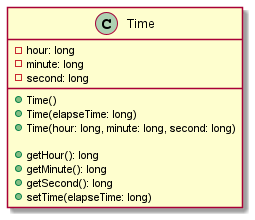
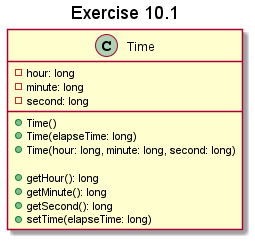
Some fixes on Exercises 10 1-3.

Changed region(s): [[0.0, 0.0, 0.9882, 0.6545], [0.0275, 0.6818, 0.9608, 0.9545]]

diff --git a/Introduction_to_Java_Programming/src/main/java/chapter10/example/examples/TestInteger.java b/Introduction_to_Java_Programming/src/main/java/chapter10/example/examples/TestInteger.java
@@ -27,11 +27,18 @@ public class TestInteger {
         System.out.println("x1 == x2 is " + (x1 == x2)); // Display false
     }
 
+    /** constants */
     public static void maxValues() {
         System.out.println("The maximum integer is " + Integer.MAX_VALUE);
         System.out.println("The minimum positive float is " +Float.MIN_VALUE);
         System.out.println("The maximum double-precision floating-point number is " +
                         Double.MAX_VALUE);
+    }
+
+    public static void conversionMethods() {
+        int val1 = Double.valueOf(12.4).intValue(); // returns 12
+        double val2 = Integer.valueOf(12).doubleValue(); // returns 12.0
+        System.out.println("Values = "  + val1 + ", " + val2);
     }
 
     public static void compareToTest() {
@@ -40,11 +47,20 @@ public class TestInteger {
         System.out.println(Double.valueOf(12.3).compareTo(Double.valueOf(12.51))); // returns –1;
     }
 
+    public static void parsing() {
+        int i1 = Integer.parseInt("11", 2); // returns 3;
+        int i2 = Integer.parseInt("12", 8); // returns 10;
+        int i3 = Integer.parseInt("13", 10); // returns 13;
+        int i4 = Integer.parseInt("1A", 16); //  returns 26;
+        System.out.println("integers = " + i1 + ", " + i2 + ", " + i3 + ", " + i4);
+    }
 
     public static void main(String[] args) {
         constructorExamples();
         frequentlyUsed();
         maxValues();
+        conversionMethods();
+        parsing();
         compareToTest();
     }
 }

diff --git a/Introduction_to_Java_Programming/src/main/java/chapter10/exercise/exercise10_03/Exercise10_04.java b/Introduction_to_Java_Programming/src/main/java/chapter10/exercise/exercise10_03/Exercise10_04.java
@@ -1,0 +1,32 @@
+/*
+ * Exercise 10.4
+ */
+
+package chapter10.exercise.exercise10_03;
+
+import java.util.Scanner;
+
+/**
+ * Exercis the MyInteger class
+ * @author emaph
+ */
+public class Exercise10_04 {
+    public static void main(String[] args) {
+        Scanner input = new Scanner(System.in);
+        System.out.print("Enter an integer: ");
+        int int1 = input.nextInt();
+        MyInteger n1 = new MyInteger(int1);
+        System.out.println("n1 is even? " + n1.isEven());
+        System.out.println("n1 i prime? " + n1.isPrime());
+        System.out.println("15 is prime? " + MyInteger.isPrime(15));
+        System.out.print("Enter a string: ");
+        String str = input.next();
+        System.out.println(MyInteger.parseInt(str));
+        System.out.print("Enter an integer: ");
+        int n2 = input.nextInt();
+        System.out.println("n2 is odd? " + MyInteger.isOdd(n2));
+        System.out.println("45 is odd? " + MyInteger.isOdd(45));
+        System.out.println("n1 is equal to n2? " + n1.equals(n2));
+        System.out.println("n1 is equal to 5? " + n1.equals(5));
+    }
+}

diff --git a/Introduction_to_Java_Programming/src/main/java/chapter10/exercise/exercise10_02/Exercise10_02.java b/Introduction_to_Java_Programming/src/main/java/chapter10/exercise/exercise10_02/Exercise10_02.java
@@ -14,7 +14,7 @@ package chapter10.exercise.exercise10_02;
  *
  * @author emaph
  */
-public class UseBMIClass {
+public class Exercise10_02 {
     public static void main(String[] args) {
         BMI bmi1 = new BMI("Kim Yang", 18, 145, 5, 10);
         printBMI(bmi1);
@@ -23,8 +23,8 @@ public class UseBMIClass {
         printBMI(bmi2);
 
         // Use new constructor
-        BMI bmi3 = new BMI("Susan King", 20, 215, 5, 10);
-        printBMI(bmi3);
+        BMI bmi3 = new BMI("Joe Jones", 25, 185, 6, 10);
+        printBMI(bmi3);// Normal
     }
 
     static void printBMI(BMI bmi) {
@@ -35,4 +35,4 @@ public class UseBMIClass {
 
 // he BMI for Kim Yang is 20.81 Normal
 // The BMI for Susan King is 30.85 Obese
-// The BMI for Susan King is 30.85 Obese
+// The BMI for Joe Jones is 19.34 Normal

diff --git a/Introduction_to_Java_Programming/src/main/java/chapter10/exercise/exercise10_01/Time.java b/Introduction_to_Java_Programming/src/main/java/chapter10/exercise/exercise10_01/Time.java
@@ -8,7 +8,7 @@ package chapter10.exercise.exercise10_01;
  * Time class
  * @author emaph
  */
-public final class Time {
+public class Time {
 
     private long hour;
     private long minute;
@@ -53,6 +53,7 @@ public final class Time {
     }
 
     // see Exercise 3.30 and Listing 2.7
+    /** Set new time given eleapsed time */
     public void setTime(long elapseTime) {
         long totalSeconds = elapseTime / 1000;
         this.second = totalSeconds % 60;

diff --git a/Introduction_to_Java_Programming/src/main/java/chapter10/exercise/exercise10_01/Exercise10_01.java b/Introduction_to_Java_Programming/src/main/java/chapter10/exercise/exercise10_01/Exercise10_01.java
@@ -31,7 +31,7 @@ package chapter10.exercise.exercise10_01;
  * Exercise the Time class
  * @author emaph
  */
-public class TestTimeClass {
+public class Exercise10_01 {
     public static void main(String[] args) {
         Time time0 = new Time();
         Time time1 = new Time(555550000);  // eleapsed time
